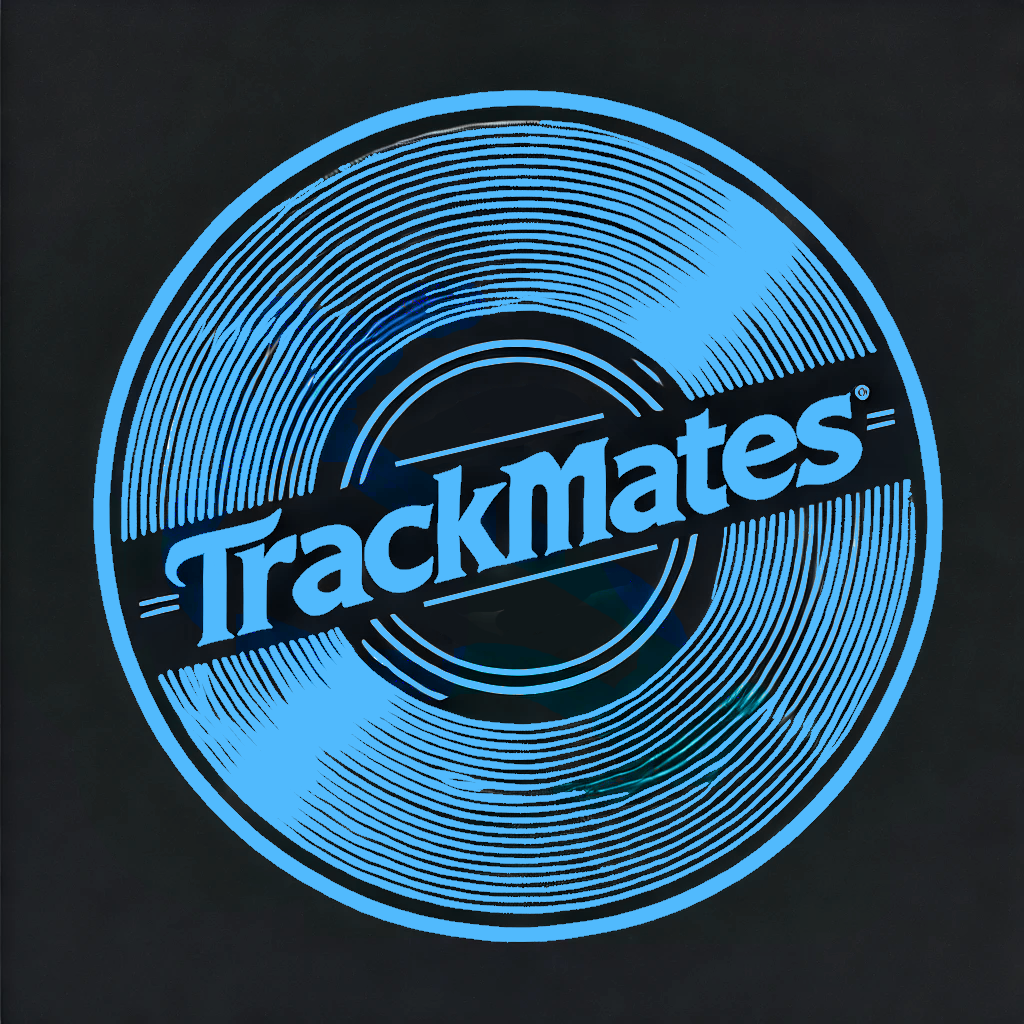
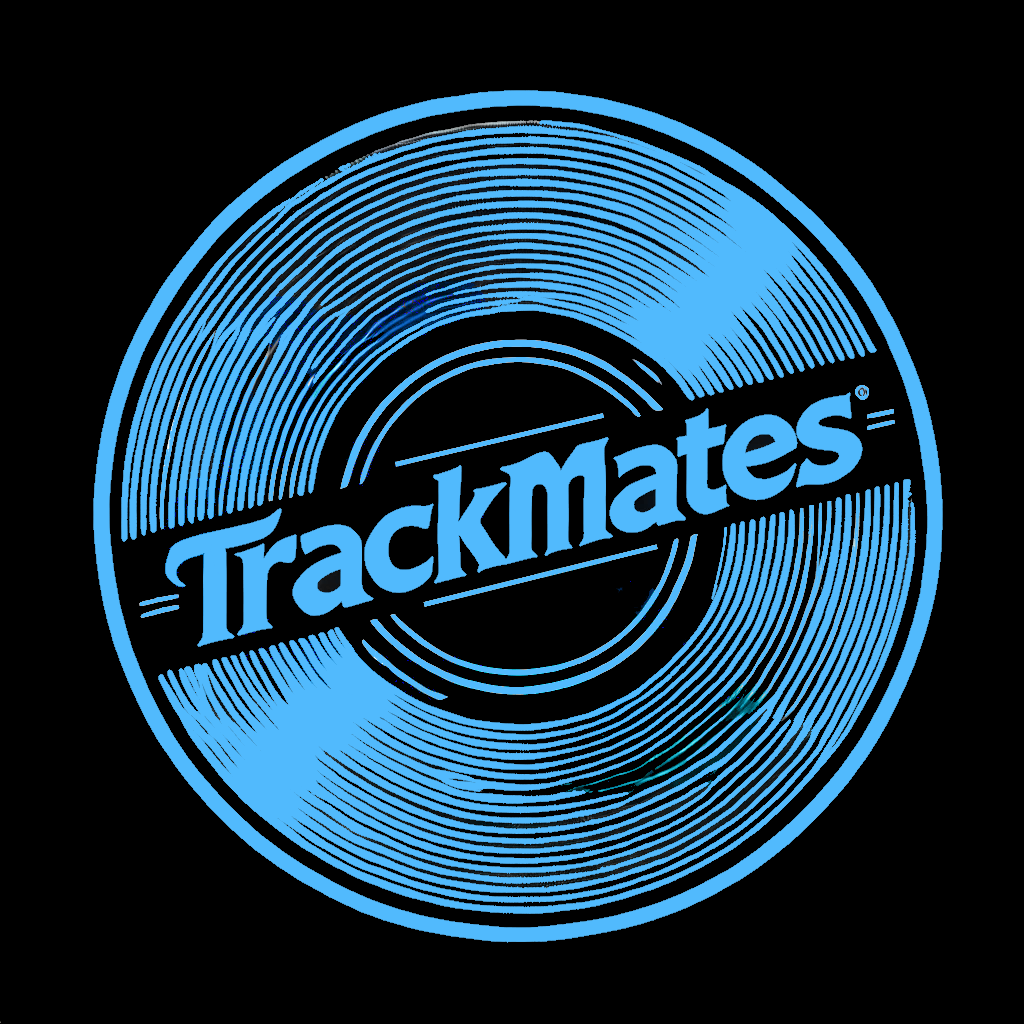
Changed trackmate image and testing left music bar

diff --git a/project/frontend/src/components/yourMusicBar.vue b/project/frontend/src/components/yourMusicBar.vue
@@ -1,0 +1,21 @@
+<script setup lang="ts">
+</script>
+
+<template>
+    <div>
+     <p>Test</p>   
+    </div>
+</template>
+
+<style scoped>
+div{
+    width:35%;
+    margin-left:20px;
+    margin-top:20px;
+    background-color: antiquewhite;
+}
+
+p{
+    height:200px;
+}
+</style>

diff --git a/project/frontend/src/views/HomeView.vue b/project/frontend/src/views/HomeView.vue
@@ -1,9 +1,13 @@
 <script setup lang="ts">
 import LogoBar from "../components/logoBar.vue"
+import YourMusicBar from "../components/yourMusicBar.vue"
 </script>
 
 <template>
   <LogoBar />
+
+  <YourMusicBar />
+
   <div>
     <h1 class="text-5xl">Testing</h1>
     
